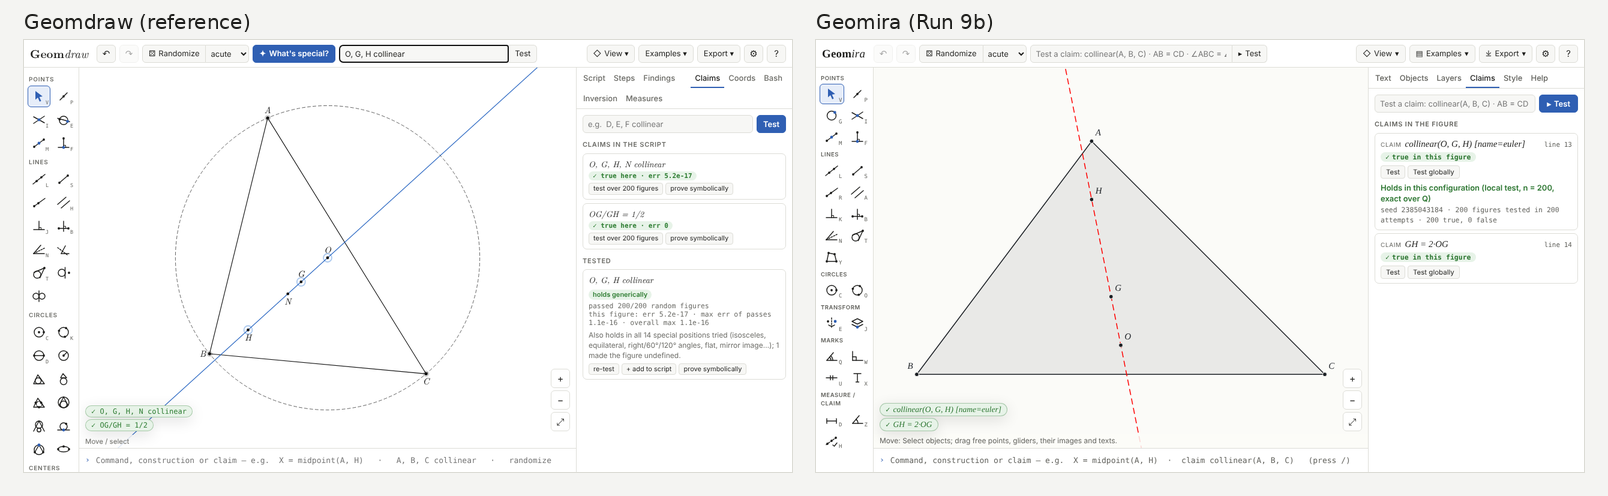
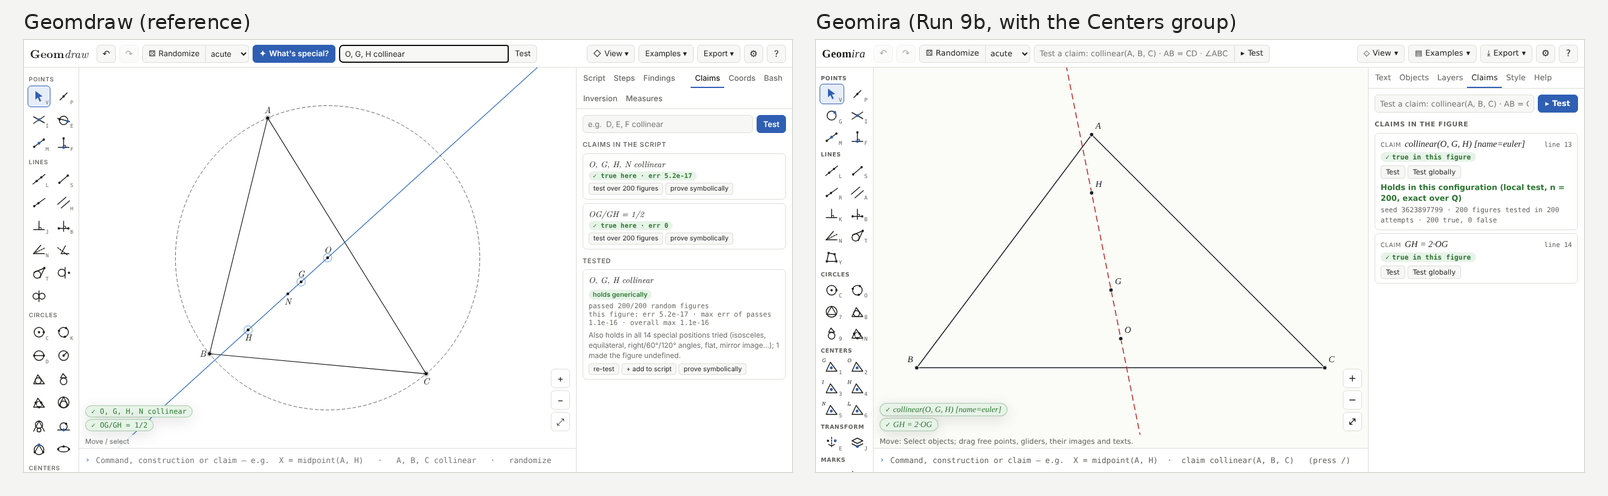
The three phone canvas baselines are CI's renders; STATUS, README and side-by-side images for the additions
CI resolves the label face to another italic than this container (ADR-0016 decision 19);
only the three phone canvas baselines of Run 7's spec differed in ci 39613683770, and they
are taken from that run's Playwright report. STATUS records the three additions, the six
frozen lines changed under ADR-0016 decision 22 and the readings; test-count floor 2143.

Claude-Session: https://claude.ai/code/session_01VbRYiHjZLK1tkZKg36d51c

diff --git a/docs/STATUS.md b/docs/STATUS.md
@@ -18,6 +18,16 @@ long task stays at most 16 ms (CI: 3.3 ms) and the full UI drag frame's app work
 8 ms (CI median 5.52 ms). CI on GitHub: ci **https://github.com/youseng/geomira/actions/runs/39605322287 success**, deploy **https://github.com/youseng/geomira/actions/runs/39605322376 success**, tex
 **https://github.com/youseng/geomira/actions/runs/39604348357 success (999d446, the last export change)**.
 
+### The maintainer's three additions before merge (ADR-0016 decisions 20–22)
+
+Asked after the run was accepted, in the same PR: (1) a Centers group of GUI tools and the
+triangle circles, (2) named colours in Geomdraw's palette, (3) polygons as outlines. All three
+are done (items 10–12 below), with six frozen lines changed under ADR-0016 decision 22. On
+c10cb19: verify green locally (2143 tests), the full Playwright suite green locally (64 tests,
+below), every baseline regenerated (the three phone canvas baselines are CI's renders again,
+from ci 39613683770's report: only those three differed there, as in decision 19), long task max 6.8 ms (budget 16) and drag-frame app work
+median 5.81 ms locally (budget 8). CI: pending (filled in by the last commit).
+
 ### Side by side: Geomdraw (left) and Geomira (right)
 
 The main screen (the nine-point circle; Geomdraw's screenshot 02 at 1280 × 720):
@@ -85,7 +95,32 @@ The phone layout (390 × 664 at 2×; Geomdraw's screenshot 06):
    deploy. → `pages-smoke.spec.ts`.
 9. **No later-run features (item 9).** None of What's special?, Steps, Findings, Solution,
    Bash, Inversion, Coords, symbolic checks, problem library: no stub, no dead button. The
-   Centers group is left out (no centre tools in the editor; decision 3).
+   Centers group, first left out, is added at the maintainer's request (item 10).
+10. **Centers group (addition 1, decision 21).** Centroid (key 1), Circumcentre (2), Incentre
+    (3), Orthocentre (4), Nine-point centre (5) — Geomdraw's numbers — and Excentre (6) in a
+    new group "Centers" after Circles; Circumcircle (7), Incircle (8), Excircle (9) and
+    Nine-point circle (Shift+N, shown "⇧N") in Circles. Each picks A, B, C by clicking (an
+    existing point, or a new one where you click) and writes the kernel call
+    (`D = circumcenter(A, B, C)`). Geomdraw's icons and corner letters (G, O, I, H, N, Iₐ).
+    → `packages/editor/test/centres.test.ts` (one scenario per tool: the call, the value
+    against the triangle's coordinates, one history entry; keys; from an empty canvas; a
+    collinear pick gives an undefined circle), `apps/web/e2e/flows-centres.spec.ts` (the
+    circumcentre from an empty canvas and the incircle on the same points by clicks, the same
+    text as by command; the keys 2, Shift+N, n), `apps/web/test/design.test.tsx` (corner
+    letters, ⇧N), `packages/editor/test/tool-groups.test.ts` (the group order).
+11. **Named colours (addition 2, decision 20).** `@geomira/scene/palette`: black #111111, red
+    #b3261e, blue #1f6fd1, green #2e7d32, orange #d9730d, purple #7b3fa0, brown #8d5a3b, teal
+    #00897b, gray/grey #777777, resolved by the layout for items and labels; hex and every
+    other colour exactly as written; the text keeps the name. The Style panel also offers teal.
+    → `packages/scene/test/palette.test.ts`, `packages/export/test/palette.test.ts` (SVG, TikZ
+    and Asymptote write the palette hex), `apps/web/test/palette.test.ts` (the canvas sets the
+    same colours as the SVG), the regenerated export goldens.
+12. **Polygons as outlines (addition 3, decision 20).** An uncoloured polygon is drawn and hit
+    on its edges only; a coloured one keeps its tint (colour is the one style field that set a
+    fill). Its label stays at the centroid of its region in both cases. The constructive
+    Asymptote export follows. → `packages/scene/test/palette.test.ts` (outline, coloured fill,
+    hits, label), `display.test.ts` and `hit.test.ts` (changed lines below), the regenerated
+    canvas, PNG and page baselines.
 
 ## Not done
 
@@ -123,6 +158,20 @@ None known. Found and fixed during the run:
 - **The side-by-side images contain Geomdraw's screenshots** (from the reference zip, which
   itself is not unzipped into the repository). If they should not be committed, they can be
   replaced by links.
+- **Polygon fill (addition 3).** No style field named fill exists; "keep any existing style
+  field that sets a fill working" is read as: a polygon with a `color` keeps its tint at the
+  theme's 0.08, an uncoloured one is an outline. Say if coloured polygons should be outlines
+  too, or if a `fill=` style key is wanted (a language change).
+- **Palette values.** Blue is #1f6fd1 as asked (Geomdraw's highlight blue; Geomdraw's own
+  `COLORS.blue` is #1f5fbf); the others are Geomdraw's `COLORS`. Black #111111 differs from
+  the default ink #1b1f24, which frozen tests pin.
+- **Names and spelling of the centre tools.** A centre takes the next free capital (D after
+  A, B, C), not O, G, I, H, N: the editor's naming is unchanged. Tool labels spell "centre"
+  as the rest of the interface; the group is "Centers" as asked. The circumcircle tool writes
+  `circumcircle(A, B, C)`, beside Circle (3 points), which writes `circle(A, B, C)`.
+- **Keys.** Geomdraw types its centres as G then a digit; G is the glider here, so the digit
+  alone selects the centre. Shift+N for the nine-point circle because every lowercase letter
+  is taken.
 - No contest problems or mathematical facts were used.
 
 ## Changed frozen tests
@@ -139,12 +188,74 @@ committed tree; the one modified line is in commit 2723282, which cites ADR-0016
   `flows-persist.spec.ts` (4: the Export menu before Share link and each Restore previous
   figure, the Help menu before Debug report); the surface tests of num, claims and editor gain
   their new subpaths (`./decimal`, `./randomize`, `./tool-groups`).
+- **Modified for the additions (6 lines, commit 18f8a76, citing ADR-0016; decision 22)**:
+  `packages/scene/test/display.test.ts` (the polygon's `fill` length is now its `region`
+  length; one added line: its `fill` is null), `packages/scene/test/hit.test.ts` (a click
+  inside the uncoloured polygon hits nothing), `packages/export/test/svg-tikz.test.ts` (2:
+  teal is #00897B), `apps/web/test/render.test.ts` (red is #b3261e on the canvas),
+  `apps/web/e2e/flows-export.spec.ts` (red is B3261E in TikZ). The scene and editor surface
+  tests gain `./palette` and `keyCap`.
 - **Baselines** (not test code): Run 7's canvas baselines and Run 9a's PNG goldens regenerated
   for the new look; the SVG goldens change in their `<g font-family …>` line only.
 - `apps/web/playwright.config.ts` (config): the `pages` project, `pages-smoke` ignored by the
   desktop and mobile projects, no local server when `GEOMIRA_PAGES_URL` is set.
 
 ## Acceptance command output
+
+### The additions: local, c10cb19 (`pnpm verify`; then `pnpm build` and `pnpm e2e`)
+
+```
+✔ no dependency violations found (473 modules, 2654 dependencies cruised)
+ok   tolerance: 684 files scanned, 0 violation(s)
+ok   file-length: 684 files scanned, 0 violation(s)
+ok   test-count: 2143 tests, floor 2143, 0 violation(s)
+ok   disabled-tests: 684 files scanned, 0 violation(s)
+ok   add-only: frozen tests compared with run-9a, 0 violation(s)
+ok   forbidden-words: 684 files scanned, 0 violation(s)
+ Test Files  198 passed (198)
+      Tests  2143 passed (2143)
+ claims/src        |   95.28 |    86.57 |    99.5 |   97.87 |
+ editor/src        |   93.67 |    87.26 |   98.67 |   97.16 |
+ export/src        |   95.63 |    87.52 |   99.03 |   96.55 |
+ kernel/src        |   98.48 |     95.8 |   99.73 |   98.96 |
+ kernel/src/tools  |   99.33 |    98.32 |     100 |   99.73 |
+ lang/src          |   97.65 |    92.99 |   99.72 |   98.53 |
+ scene/src         |   97.65 |    90.45 |     100 |   98.35 |
+Statements   : 96.98% ( 9415/9708 )
+Branches     : 91.6% ( 7640/8340 )
+Functions    : 99.53% ( 2151/2161 )
+Lines        : 98.29% ( 7854/7990 )
+verify exit=0
+```
+
+```
+(selected lines of the 64; the full list is the same as CI's below plus the two new flows)
+✓   2 [mobile] › e2e/design-mobile.spec.ts:31:1 › screenshot baseline: the phone layout
+✓   3 [mobile] › e2e/design-mobile.spec.ts:38:1 › nothing is clipped: top bar, tabs, tool strip, command line, drawer
+✓   5 [mobile] › e2e/design-mobile.spec.ts:66:1 › Randomize and the menus work on a phone
+frame time (mobile): {"objects":300,"drag":{"frames":120,"median":5.6000000005587935,"p95":12.599999999627471,"max":393.19999999925494},"pan":{"frames":120,"median":3.2000000001862645,"p95":5.7999999998137355,"max":400}}
+✓  11 [mobile] › e2e/scene.spec.ts:28:1 › frame time at 300 objects (SPEC §17: drag frame ≤ 8 ms)
+✓  18 [desktop] › e2e/flows-centres.spec.ts:16:1 › the circumcentre and the incircle by clicks; the same text as by command
+✓  20 [desktop] › e2e/flows-centres.spec.ts:58:1 › the centre tools have their keys: 2 is the circumcentre, Shift+N the nine-point circle
+✓  23 [desktop] › e2e/flows-design.spec.ts:20:1 › screenshot baseline: the main screen (nine-point circle)
+✓  25 [desktop] › e2e/flows-design.spec.ts:28:1 › screenshot baseline: the Claims panel after a local test (seed masked)
+✓  27 [desktop] › e2e/flows-design.spec.ts:45:1 › Randomize draws a new figure of each triangle type as one undoable edit
+✓  29 [desktop] › e2e/flows-design.spec.ts:63:1 › Randomize says why it cannot draw a typed triangle
+✓  30 [desktop] › e2e/flows-design.spec.ts:72:1 › the claim box adds the claim, opens Claims and tests it; the chip follows
+✓  32 [desktop] › e2e/flows-design.spec.ts:104:1 › developer items: behind Settings, or on from the start with ?dev=1
+✓  34 [desktop] › e2e/flows-design.spec.ts:117:1 › icon buttons are named by their old labels; keyboard focus is visible
+✓  36 [desktop] › e2e/flows-design.spec.ts:160:3 › text meets WCAG AA contrast (light scheme)
+✓  38 [desktop] › e2e/flows-design.spec.ts:160:3 › text meets WCAG AA contrast (dark scheme)
+frame time (desktop): {"objects":300,"drag":{"frames":120,"median":4.2000000001862645,"p95":8.299999999813735,"max":694.4000000003725},"pan":{"frames":120,"median":2.199999999254942,"p95":4.8999999994412065,"max":509.20000000018626}}
+✓  57 [desktop] › e2e/scene.spec.ts:28:1 › frame time at 300 objects (SPEC §17: drag frame ≤ 8 ms)
+main thread during a test (measure): {"tasks":12146,"maxTask":6.8,"longTasks":[],"pingGaps":12097,"maxPingGap":6.9}
+✓  63 [measure] › e2e/long-task.spec.ts:53:1 › the main thread never blocks for more than 16 ms during a local and a global test
+full UI drag frame (measure-drag): {"objects":300,"app":{"frames":120,"median":5.81,"p95":9.69,"max":12.25},"raster":{"frames":120,"median":14.54,"p95":21.07,"max":31.18},"total":{"frames":120,"median":20.84,"p95":28.15,"max":40.24}}
+✓  64 [measure-drag] › e2e/drag-frame.spec.ts:86:1 › a full UI drag frame at 300 objects (SPEC §17: ≤ 8 ms)
+64 passed
+```
+
+`docs/test-count.txt` is raised to 2143.
 
 ### Local, 999d446 (`pnpm install && pnpm verify`; 7d95eba changes only e2e baselines and the ADR)
 
@@ -270,6 +381,8 @@ full UI drag frame (measure-drag): {"objects":300,"app":{"frames":120,"median":5
 | eab2c6b | steps 1–5 (Randomize, the UI, specs, README, contrast) | failure 39602546629 (fonts) | failure 39602546767 (fonts) | success 39602546646                              |
 | 999d446 | step 6: overlays that render alike; Randomize coverage | failure 39604348208 (phone) | failure 39604348258 (phone) | success 39604348357                              |
 | 7d95eba | the phone canvas baselines are CI's renders; ADR-0016  | **success 39605322287**     | **success 39605322376**     | (not triggered: nothing under its paths changed) |
+| c10cb19 | the three additions: Centers, palette, outlines        | failure 39613683770 (phone) | failure 39613325998 (phone) | success 39613683880                              |
+| next    | the phone canvas baselines are CI's renders; STATUS    | pending                     | pending                     | pending                                          |
 
 Run URLs are `https://github.com/youseng/geomira/actions/runs/<id>`. The nightly is not waited
 for. The smoke job runs only after a deploy from `main`, i.e. on the merge.
@@ -288,6 +401,7 @@ for. The smoke job runs only after a deploy from `main`, i.e. on the merge.
 
 ## Notes for later runs
 
+- A tool key that is an uppercase letter is Shift+letter; `keyCap` shows it as "⇧N".
 - A new GUI tool needs an icon (`icons.tsx`, the compiler asks) and a group (the Record in
   `tool-groups.ts`).
 - Screenshot baselines with interface text depend on the machine's fonts: render them as CI

diff --git a/README.md b/README.md
@@ -14,8 +14,10 @@ export it for an AoPS post or a handout.
 - **The text is the figure.** Every figure is a short text (`M_a = midpoint(B, C)`,
   `claim concyclic(M_a, M_b, M_c, D, E, F)`), edited in the Text panel or one line at a time in
   the command line; a share link holds the whole text and opens the same figure again.
-- **Tools in groups** (points, lines, circles, transformations, marks, measures and claims),
-  each with a one-key shortcut; intersections and tangents ask which of two points you mean
+- **Tools in groups** (points, lines, circles, triangle centres, transformations, marks,
+  measures and claims), each with a one-key shortcut: click A, B, C for the circumcentre,
+  incentre, orthocentre, centroid, nine-point centre, excentre, or the circumcircle, incircle,
+  excircle and nine-point circle; intersections and tangents ask which of two points you mean
   and write a selector that keeps that choice when the figure moves.
 - **Honest about degeneracy.** An object that cannot be constructed is shown as undefined with
   its reason (“the circles are apart”), never drawn as garbage, and a point never jumps.
@@ -30,6 +32,9 @@ export it for an AoPS post or a handout.
   similarities; a layer can hold the image of another layer and follows it.
 - **Randomize** draws a new figure of the same construction with an acute, obtuse or right
   triangle (or any), through the claim tester's own sampler.
+- **Colours by name** (`color=red`, `blue`, `green`, `orange`, `purple`, `grey`, …) in
+  Geomdraw's palette, the same on the canvas and in every export; hex colours as written.
+  Polygons are outlines unless they are coloured.
 - **Exports** of what you see: SVG, PNG (with the figure's text inside), TikZ, and Asymptote,
   constructive where possible, with an AoPS form that uses `olympiad.asy`.
 - **On a phone** too: a tool strip, the panels as a drawer, pan, pinch and drag by touch.
@@ -64,7 +69,6 @@ pair G = gm_centroid(A, B, C);
 pair H = gm_orthocenter(A, B, C);
 gmline e = gm_line(O, H);
 
-fill(abc, gmc0 + opacity(0.08));
 draw(abc, gmc0 + linewidth(1.125));
 draw(gm_path(e), gmc1 + linewidth(1.125) + linetype(new real[] {6.75, 5.25}, false));
 gm_dot(A, 0.04375, gmc0, 1);

diff --git a/docs/adr/0016-ui-design-pass.md b/docs/adr/0016-ui-design-pass.md
@@ -207,7 +207,8 @@ and the end-to-end selectors.
     `apps/web/test/render.test.ts` (the canvas's red stroke is #b3261e, not "red");
     `apps/web/e2e/flows-export.spec.ts` (the TikZ colour of red is B3261E, not FF0000). The
     export golden files change in their colours and lose the fills of uncoloured polygons; the
-    screenshot and PNG baselines are regenerated.
+    screenshot and PNG baselines are regenerated, and the three phone canvas baselines are
+    again CI's own renders (decision 19).
 
 ## Consequences
 
